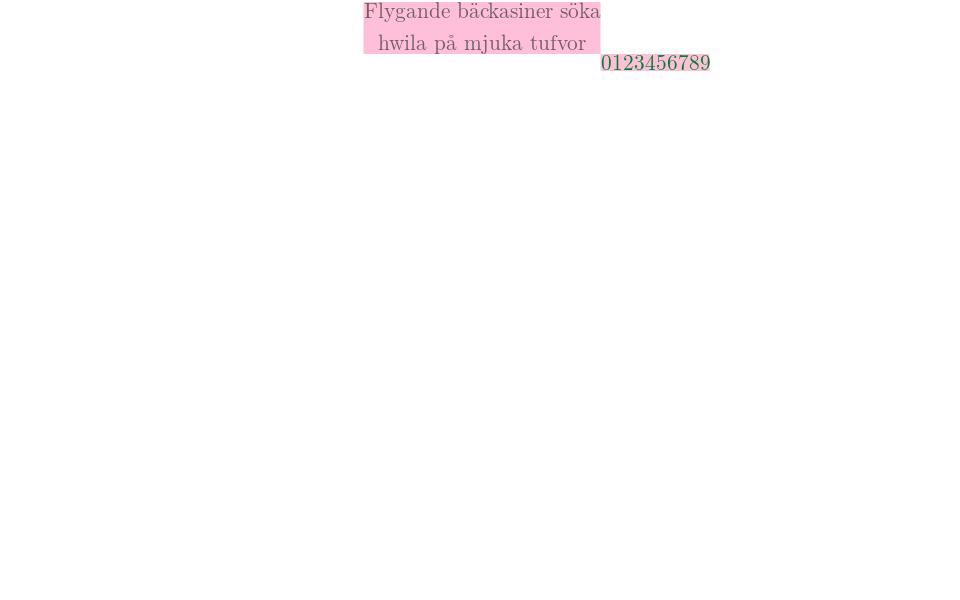
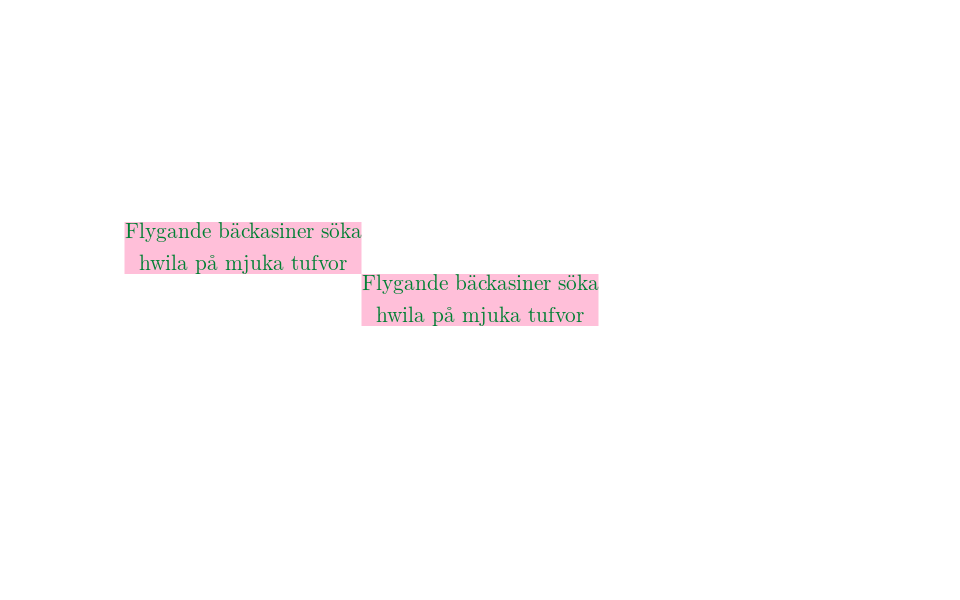
Use min max instead of min size

Changed region(s): [[0.125, 0.36, 0.625, 0.57], [0.375, 0.0, 0.625, 0.09], [0.625, 0.09, 0.75, 0.12]]

diff --git a/surface.hpp b/surface.hpp
@@ -17,17 +17,32 @@ namespace PageComposer
 	class Surface
 		{
 		public:
+			struct Pixel
+				{
+				uint8_t blue;
+				uint8_t green;
+				uint8_t red;
+				uint8_t alpha;
+				};
+
 			explicit Surface(int width,int height);
 
 			~Surface();
 
 			Surface(Surface&& s) noexcept:
-				 m_handle(s.m_handle)
-				{s.m_handle.reset();}
+				 m_handle(s.m_handle),m_dirty_region(s.m_dirty_region)
+				,m_dirty_data(s.m_dirty_data),m_dirty_fetched(s.m_dirty_fetched)
+				{
+				s.m_handle.reset();
+				s.m_dirty_data=nullptr;
+				}
 
 			Surface& operator=(Surface&& s) noexcept
 				{
 				std::swap(s.m_handle,m_handle);
+				std::swap(s.m_dirty_region,m_dirty_region);
+				std::swap(s.m_dirty_data,m_dirty_data);
+				std::swap(s.m_dirty_fetched,m_dirty_fetched);
 				return *this;
 				}
 
@@ -47,32 +62,55 @@ namespace PageComposer
 
 			int stride() const noexcept;
 
-			const uint8_t* data() const noexcept;
+			const Pixel* data() const noexcept;
 
-			uint8_t* data() noexcept;
+			Pixel* data() noexcept;
 
-			void dirtySet() noexcept;
+			Surface& dirtySet() noexcept;
 
 			void save(const char* filename) const;
 
-			void renderRegionAdd(const Rectangle& rect)
+			Surface& renderRegionAdd(const Rectangle& rect)
 				{
-				auto size_new=emax(rect.size(),m_dirty_region.size());
-				auto min_new=emin(rect.min(),m_dirty_region.min());
-	
-				m_dirty_region.size()=size_new;	
-				m_dirty_region.min()=min_new;				
+				m_dirty_region.max()=emax(rect.max(),m_dirty_region.max());
+				m_dirty_region.min()=emin(rect.min(),m_dirty_region.min());
+				region_clamp();
+				m_dirty_fetched=0;
+				return *this;
 				}
 
-			void renderRegionClear()
+			Surface& renderRegionClear()
 				{
-				m_dirty_region.size()=Vec2{0,0};
+				m_dirty_region.max()=Vec2{0,0};
 				m_dirty_region.min()=Vec2{double(width()),double(height())};
+				m_dirty_fetched=0;
+				return *this;
+				}
+
+			const Pixel* dataDirty() const noexcept
+				{
+				if(!m_dirty_fetched)
+					{dirty_fetch();}
+				return m_dirty_data;
+				}
+
+			Rectangle regionDirty() const noexcept
+				{return m_dirty_region;}
+
+			Pixel* dataDirty() noexcept
+				{
+				if(!m_dirty_fetched)
+					{dirty_fetch();}
+				return m_dirty_data;
 				}
 	
 		private:
+			void dirty_fetch() const noexcept;
+			void region_clamp() noexcept;
 			Handle<surface_t> m_handle;
 			Rectangle m_dirty_region;
+			Pixel* m_dirty_data;
+			mutable bool m_dirty_fetched;
 		};
 	};
 

diff --git a/surface.cpp b/surface.cpp
@@ -4,15 +4,24 @@
 
 #include "surface.hpp"
 #include "cairohandles.hpp"
+#include <cstring>
+#include <cassert>
 
 using namespace PageComposer;
 
 Surface::Surface(int width,int height):
 m_handle( cairo_image_surface_create(CAIRO_FORMAT_ARGB32,width,height) )
-	{renderRegionClear();}
+	{
+	m_dirty_data=static_cast<Pixel*>(malloc(sizeof(Pixel)*width*height));
+	memset(m_dirty_data,0,sizeof(Pixel)*width*height);
+	renderRegionClear();
+	}
 
 Surface::~Surface()
-	{cairo_surface_destroy(cairosurface(m_handle));}
+	{
+	free(m_dirty_data);
+	cairo_surface_destroy(cairosurface(m_handle));
+	}
 
 int Surface::width() const noexcept
 	{
@@ -32,24 +41,47 @@ int Surface::stride() const noexcept
 	return cairo_image_surface_get_stride(handle);
 	}
 
-const uint8_t* Surface::data() const noexcept
+const Surface::Pixel* Surface::data() const noexcept
 	{
 	auto handle=const_cast<cairo_surface_t*>(cairosurface(m_handle));
 	cairo_surface_flush(handle);
-	return cairo_image_surface_get_data(handle);
+	return reinterpret_cast<const Pixel*>(cairo_image_surface_get_data(handle));
 	}
 
-uint8_t* Surface::data() noexcept
+Surface::Pixel* Surface::data() noexcept
 	{
 	cairo_surface_flush(cairosurface(m_handle));
-	return cairo_image_surface_get_data(cairosurface(m_handle));
+	return reinterpret_cast<Pixel*>(cairo_image_surface_get_data(cairosurface(m_handle)));
 	}
 
-void Surface::dirtySet() noexcept
-	{cairo_surface_mark_dirty(cairosurface(m_handle));}
+Surface& Surface::dirtySet() noexcept
+	{
+	cairo_surface_mark_dirty(cairosurface(m_handle));
+	return *this;
+	}
 
 void Surface::save(const char* filename) const
 	{
 	auto handle=const_cast<cairo_surface_t*>(cairosurface(m_handle));
 	cairo_surface_write_to_png(handle,filename);
+	}
+
+void Surface::region_clamp() noexcept
+	{
+	m_dirty_region.min()=emax(Vec2{0,0},m_dirty_region.min());
+	m_dirty_region.max()=emin(Vec2{double(width()),double(height())},m_dirty_region.max() );
+	}
+
+void Surface::dirty_fetch() const noexcept
+	{
+/*	auto data_new=data();
+	auto l_0=static_cast<int>(m_dirty_region.min().x());
+	auto k_0=static_cast<int>(m_dirty_region.min().y());
+	auto L=m_dirty_region.widthInt();
+	auto K=m_dirty_region.heightInt();
+	auto w=width();
+	assert(stride()==int(sizeof(Pixel)*w));
+	for(int k=0;k<K;++k)
+		{memcpy(m_dirty_data + k*L,data_new + (k_0 + k)*w + l_0,L*sizeof(Pixel));}*/
+	m_dirty_fetched=1;
 	}

diff --git a/paragraph.cpp b/paragraph.cpp
@@ -48,13 +48,9 @@ Rectangle Paragraph::bounding_rectangle_raw() const noexcept
 	auto handle=const_cast<PangoLayout*>(layout(m_layout));
 	PangoRectangle ink;
 	pango_layout_get_pixel_extents(handle,&ink,NULL);
-	return Rectangle
-		{
-		 static_cast<float>(ink.x)
-		,static_cast<float>(ink.y)
-		,static_cast<float>(ink.width)
-		,static_cast<float>(ink.height)
-		};
+	Vec2 min{double(ink.x),double(ink.y)};
+	auto max=min+Vec2{double(ink.width),double(ink.height)};
+	return Rectangle{min,max};
 	}
 
 
@@ -162,7 +158,6 @@ void Paragraph::style_apply() const noexcept
 		,m_t_style.smallcaps()?PANGO_VARIANT_SMALL_CAPS:PANGO_VARIANT_NORMAL);
 	pango_font_description_set_size(f,size_font(m_p_style,m_t_style,width,height)*PANGO_SCALE);
 
-
 	auto para_size_dim=m_p_style.sizeDimension();
 	auto l=const_cast<PangoLayout*>(layout(m_layout));
 	pango_layout_set_font_description(l,f);
@@ -170,8 +165,6 @@ void Paragraph::style_apply() const noexcept
 		{pango_layout_set_height(l,size_box(m_p_style,m_t_style,width,height)*PANGO_SCALE);}
 	else
 		{pango_layout_set_width(l,size_box(m_p_style,m_t_style,width,height)*PANGO_SCALE);}
-
-
 	pango_layout_set_alignment(l,pango_alignment(m_p_style.alignment()));
 
 	m_flags&=~STYLE_DIRTY;
@@ -188,11 +181,12 @@ void Paragraph::render_impl() const noexcept
 
 //	bounding_rectangle_raw will update styles if needed
 	auto target_rect=bounding_rectangle_raw();
-	auto pos_rect=positionAbsolute()-0.5*hadamard(target_rect.size(),anchor() + Vec2{1,1});
+	auto size=target_rect.size();
+	auto pos_rect=positionAbsolute()-0.5*hadamard(size,anchor() + Vec2{1,1});
 	auto pos_text=pos_rect - target_rect.min();
 
 	cairo_rectangle(rc_handle,pos_rect.x(),pos_rect.y()
-		,target_rect.width(),target_rect.height());
+		,size.x(),size.y());
 	cairo_fill(rc_handle);
 
 	cairo_move_to(rc_handle,pos_text.x(),pos_text.y());
@@ -204,5 +198,5 @@ void Paragraph::render_impl() const noexcept
 	pango_cairo_show_layout(rc_handle
 		,const_cast<PangoLayout*>(layout(m_layout)));
 
-	render_context().surface().renderRegionAdd(Rectangle{pos_rect,target_rect.size()});
+	render_context().surface().renderRegionAdd(Rectangle{pos_rect,pos_rect + size});
 	}

diff --git a/test.cpp b/test.cpp
@@ -7,6 +7,7 @@
 #include "rendercontext.hpp"
 #include "surface.hpp"
 #include "layerstack.hpp"
+#include <cstring>
 
 
 int main()
@@ -22,31 +23,27 @@ int main()
 	PageComposer::TextStyle style_text;
 	style_text.size(16).family("Latin Modern Roman")
 		.color(PageComposer::Color{0,0.5,0.2,1});
-
-	auto style_shadow=style_text;
-	style_shadow.color(PageComposer::Color{0.25,0.25,0.25,0.75});
 	
 	PageComposer::Paragraph foo(tr);
 	foo.style(style_para)
-		.style(style_shadow)
-		.text("Flygande bäckasiner söka hwila på mjuka tufvor")
-		.positionAbsolute(PageComposer::Vec2{960/2+2,2})
-		.anchor(PageComposer::Vec2{0,-1});
-
-	auto next=foo.boundingRectangle();
-	
-	PageComposer::Paragraph bar(tr);
-	bar.style(style_para)
 		.style(style_text)
-		.text("0123456789")
-		.positionAbsolute(next.min() + next.size())
-		.anchor(PageComposer::Vec2{-1,-1});
-
-	PageComposer::LayerStack layers;
-	layers.push(PageComposer::Layer(foo))
-		.push(PageComposer::Layer(bar))
+		.text("Flygande bäckasiner söka hwila på mjuka tufvor")
+		.positionRelative(PageComposer::Vec2{0,0})
+		.anchor(PageComposer::Vec2{0,0})
 		.render();
 
+	auto rect=foo.boundingRectangle();
+
+	foo.positionAbsolute(rect.min())
+		.anchor(PageComposer::Vec2{1,1})
+		.render();
 
 	surf.save("test.png");
+
+/*	auto rendered_data=surf.dataDirty();
+	auto region_dirty=surf.regionDirty();
+	PageComposer::Surface surf2(region_dirty.widthInt(),region_dirty.heightInt());
+	memcpy(surf2.data(),rendered_data,sizeof(PageComposer::Surface::Pixel)*region_dirty.areaInt());
+	surf2.dirtySet().save("test2.png");*/
+
 	}

diff --git a/rectangle.hpp b/rectangle.hpp
@@ -4,6 +4,7 @@
 #define PAGECOMPOSER_RECTANGLE_HPP
 
 #include "vec2.hpp"
+#include <cstddef>
 
 namespace PageComposer
 	{
@@ -12,23 +13,9 @@ namespace PageComposer
 		public:
 			Rectangle(){}
 
-			explicit Rectangle(Vec2 min,Vec2 size):m_min(min),m_size(size)
+			explicit Rectangle(Vec2 min,Vec2 max):m_min(min),m_max(max)
 				{}
 
-			Rectangle(double x, double y, double w, double h):m_min{x,y},m_size{w,h}
-				{}
-
-			double x() const noexcept
-				{return m_min.x();}
-
-			double& x() noexcept
-				{return m_min.x();}
-
-			double y() const noexcept
-				{return m_min.y();}
-
-			double& y() noexcept
-				{return m_min.y();}
 
 			Vec2 min() const noexcept
 				{return m_min;}
@@ -36,29 +23,24 @@ namespace PageComposer
 			Vec2& min() noexcept
 				{return m_min;}
 
+			Vec2 max() const noexcept
+				{return m_max;}
 
-
-			double width() const noexcept
-				{return m_size.x();}
-
-			double& width() noexcept
-				{return m_size.x();}
-
-			double height() const noexcept
-				{return m_size.y();}
-
-			double& height() noexcept
-				{return m_size.y();}
+			Vec2& max() noexcept
+				{return m_max;}
 
 			Vec2 size() const noexcept
-				{return m_size;}
+				{return max() - min();}
 
-			Vec2& size() noexcept
-				{return m_size;}
+			double area() const noexcept
+				{
+				auto s=size();
+				return s.x()*s.y();
+				}
 
 		private:
 			Vec2 m_min;
-			Vec2 m_size;
+			Vec2 m_max;
 		};
 	};
 

diff --git a/paragraph.hpp b/paragraph.hpp
@@ -77,8 +77,9 @@ namespace PageComposer
 			Rectangle boundingRectangle() const noexcept
 				{
 				auto target_rect=bounding_rectangle_raw(); 
-				auto pos_rect=positionAbsolute()-0.5*hadamard(target_rect.size(),anchor() + Vec2{1,1});
-				return Rectangle{pos_rect,target_rect.size()};
+				auto size=target_rect.size();
+				auto pos_rect=positionAbsolute()-0.5*hadamard(size,anchor() + Vec2{1,1});
+				return Rectangle{pos_rect,size + pos_rect};
 				}
 
 			void render() const noexcept
